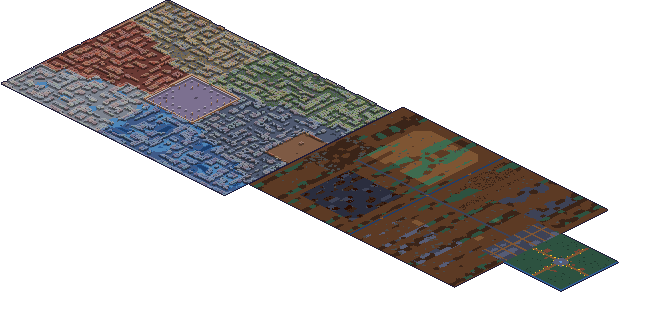
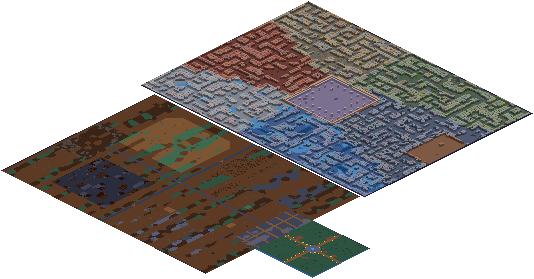
World map: the Old Market north of the Slums, by its gate
The Tab map and the Map menu still drew the Old Market west of the Slums; in the game its gate is on the Slums' north
edge. The art folder's picture (534 × 279: each map's diamond cut out and shifted whole pixels, nothing redrawn) and
layout (palengke col −20, row −212, its middle column on the Slums' gate; origin [154.6, 94]; the posts' px recomputed)
replace the old; manifest ui.mapWorld.size and the two [671, 321] fallbacks follow, the notes too. The quest map's "you"
in the Cellar is the Old Market's Cellar Hatch now, not the Slums' Warren Gate.

diff --git a/packages/game/src/ui/quest-map.ts b/packages/game/src/ui/quest-map.ts
@@ -6,7 +6,7 @@ import { type WorldMap, type WorldMapUrls, loadWorldMap, middleOf, worldPx } fro
 // Town, the Slums and the Old Market together) over the game while its key is held (keybind questMap, Tab by default),
 // or from a touch screen's tracker pin until the next tap. Centred at the biggest whole-number scale that fits (2× or
 // 1×), on the night navy at 70%, no frame and no title; only for looking. On it: you (the Map menu's pin; in the
-// neighbourhood at the Town's way there, in a Warrens run at the Slums' Warren Gate) and every active quest's hunt and
+// neighbourhood at the Town's way there, in a Warrens run at the Slums' Warren Gate, in the Cellar at the Cellar Hatch) and every active quest's hunt and
 // the NPCs it needs (ui/quest-marks.ts); none: "No quests to show on the map right now." Not while typing or while
 // another window or dialog is open.
 
@@ -128,7 +128,7 @@ export class QuestMap {
   }
 
   /** Your pixel on the picture: your tile in the Town, the Slums or the Old Market (drawn in since 23 Oct 2026); in the
-   *  neighbourhood the Town's way there, in a run (the Warrens, the Cellar) the Slums' Warren Gate (where you'd come out). */
+   *  neighbourhood the Town's way there, in a Warrens run the Slums' Warren Gate, in the Cellar the Old Market's Cellar Hatch (where you'd come out). */
   private spot(W: WorldMap): [number, number] | null {
     const at = this.here();
     if (!at) return null;
@@ -136,6 +136,11 @@ export class QuestMap {
     if (at.area === 'hood') {
       const gate = middleOf(W.town.gates?.hood);
       return gate && worldPx(W.layout, 'town', gate[0], gate[1]);
+    }
+    // A run: where you'd come out (the Cellar: the Old Market's Cellar Hatch; the Warrens: the Slums' Warren Gate).
+    if (at.area.startsWith('silong')) {
+      const hatch = W.palengke?.arrive?.silong;
+      return hatch ? worldPx(W.layout, 'palengke', hatch[0], hatch[1]) : null;
     }
     const out = W.slums.arrive?.warrens;
     return out ? worldPx(W.layout, 'slums', out[0], out[1]) : null;

diff --git a/packages/game/src/scenes/BootScene.ts b/packages/game/src/scenes/BootScene.ts
@@ -125,7 +125,7 @@ export class BootScene extends Phaser.Scene {
     // ?area=slums: the Slums, for every member (a guest, or a map that won't load, lands back in town). ?area=warrens:
     // your Scrap Warrens run (maps/warrens.json; the server puts you in it, or sends you back to the Slums).
     const area = currentArea();
-    // ?area=palengke: the Lumang Palengke (west of the Slums: a guest, or a map that won't load, lands back in town too).
+    // ?area=palengke: the Lumang Palengke (north of the Slums: a guest, or a map that won't load, lands back in town too).
     // ?area=silong-b1 (b2, b3): a floor of your Ang Silong run (the server puts you in it, or sends you back up to the
     // Palengke).
     const silong = area.startsWith('silong-');

diff --git a/packages/game/src/ui/map-menu.ts b/packages/game/src/ui/map-menu.ts
@@ -75,7 +75,7 @@ const ENTRANCE: Record<string, string> = {
 /** What the picture writes for a map's name. */
 const MAP_NAME: Record<string, string> = { slums: 'Slums', town: 'Town', palengke: 'Old Market' };
 /** The picture's own size (ui-map-world.png) when the manifest doesn't say. */
-const PICTURE: [number, number] = [671, 321];
+const PICTURE: [number, number] = [534, 279];
 const FRAME = { normal: 0, hover: 1, here: 2 } as const;
 const ICON_W = 15;
 /** Room round a map's diamond in its tab (the picture's px). */

diff --git a/packages/game/src/scenes/TownScene.ts b/packages/game/src/scenes/TownScene.ts
@@ -5157,7 +5157,7 @@ export class TownScene extends Phaser.Scene {
     const qm = new QuestMap(
       {
         world: asset(U.mapWorld?.file ?? 'ui/map/ui-map-world.png'),
-        worldSize: U.mapWorld?.size ?? [671, 321],
+        worldSize: U.mapWorld?.size ?? [534, 279],
         layout: asset(U.mapWorld?.layout ?? 'ui/map/map-layout.json'),
         slums: asset('maps/slums.json'),
         town: asset('maps/town.json'),

diff --git a/CLAUDE.md b/CLAUDE.md
@@ -234,9 +234,10 @@ where JSON allows. When you add one, add it here (and tell the owner, who copies
   `gates.palengke` (row 0, cols 121-123; moved from the west edge, col 0 rows 116-118, on 23 Oct 2026, the owner's call)
   and `arrive.palengke` [122, 3], the dead tree at (122,1) removed off that path (the six props cleared off the old west
   path on 20 Oct 2026 stay cleared; copying the art folder's map over again loses all of it);
-  `scripts/terrain/protect-slums.json` keeps the north path. `ui/map/map-layout.json`: `maps.palengke` (col −280, row 13,
-  its `label` [150, 12]: west of the Slums, where the world picture draws it, though its gate is on the Slums' north edge)
-  and `posts.palengke` (its four), `palengkeNote`; since 23 Oct 2026 ui-map-world.png (671 × 321) and
+  `scripts/terrain/protect-slums.json` keeps the north path. `ui/map/map-layout.json`: `maps.palengke` (col −20, row −212 since 30 Oct 2026: north of
+  the Slums beyond their row 0, its middle column on the Slums' north gate, as the game has it; col −280, row 13, west of
+  the Slums, before; its `label` [150, 12]) and `posts.palengke` (its four), `palengkeNote`; ui-map-world.png (534 × 279
+  since 30 Oct 2026, the art folder's docs/quest-trails/world-map, each map's diamond shifted whole pixels; 671 × 321 before) and
   ui-minimap-palengke.png are the art folder's ui/map/palengke ones (the layout's origin and post px moved +[243, 101]
   with the picture).
 - Cutscenes (23 Oct 2026): `quests/cutscenes.json` (the art folder's docs/cutscenes/cutscenes.json: its words in
@@ -1013,7 +1014,7 @@ where JSON allows. When you add one, add it here (and tell the owner, who copies
   Machine's ("The Ice Machine, the Heart of the Cellar": dungeons.json silong.lastBoss) and the Tanod's "Caught you!"
   (casino, steal). Not changed: people's, mobs' and dishes' names, the Suki Card, leveling.json's Tanod lines (the art
   folder's; quests.json's English ones are what shows) and the Discord bot's own Taglish lines (banter, greetings).
-- The Lumang Palengke (CONTEXT.md; the art folder's maps/palengke brief): the Lv 21-40 map west of the Slums, an area
+- The Lumang Palengke (CONTEXT.md; the art folder's maps/palengke brief): the Lv 21-40 map north of the Slums, an area
   like the Slums (`?area=palengke`, net/hood.ts `palengkeTownMap` / `markPalengke`, BootScene loads maps/palengke.json; the
   bot's and the dev town's room 'palengke', a battle map: its eight mob zones on since 20 Oct 2026, and its field boss the
   Great Scale, below). Its opening time (CONTEXT.md Opening time; palengke.json `opensAt`, shared travel.ts `mapOpensAt` /
@@ -1038,7 +1039,7 @@ where JSON allows. When you add one, add it here (and tell the owner, who copies
   re-tiles a palengke.json). Minimap: a colour per family, blocked tiles darker. The Market Hall's walls are ordinary props (back walls on
   the tile outside, front walls on their own: you go behind the south and east walls just inside them). String lights
   draw dead; WorldObjects `litSections` is the hook for lighting a section (nothing sets it). Its art packs into
-  `tiles-palengke` / `props-palengke` (scripts/packs.ts), loaded only there. The Map menu shows it west of the Slums, drawn
+  `tiles-palengke` / `props-palengke` (scripts/packs.ts), loaded only there. The Map menu shows it north of the Slums (west until 30 Oct 2026), drawn
   into ui-map-world.png (its size from the manifest's `ui.mapWorld.size`; the stage grows to every map, `worldBounds` /
   `shifted`) with its four posts; the quest map pins you on your own tile there. Its minimap lays the manifest's
   `ui.minimapPictures.palengke` over the tile colours (`Minimap` `paintPicture`, smoothed, redrawn on each layout). Its own music (music-palengke); title card "Lumang

diff --git a/CONTEXT.md b/CONTEXT.md
@@ -743,7 +743,8 @@ there; Settings can turn it off. Never inside a dungeon run.
 _Avoid_: path, breadcrumbs, guide line
 
 **Quest map**:
-The world map shown while you hold its key (Tab) or tap a tracker row's pin: you and every quest mark. Only for looking.
+The world map shown while you hold its key (Tab) or tap a tracker row's pin: you and every quest mark, the Town, the
+Slums and the Old Market as they lie (the Old Market north of the Slums, by its gate). Only for looking.
 _Avoid_: Tab map, world map overlay; not the Map menu (M, with its frame and teleporting)
 
 **Quest mark**:
